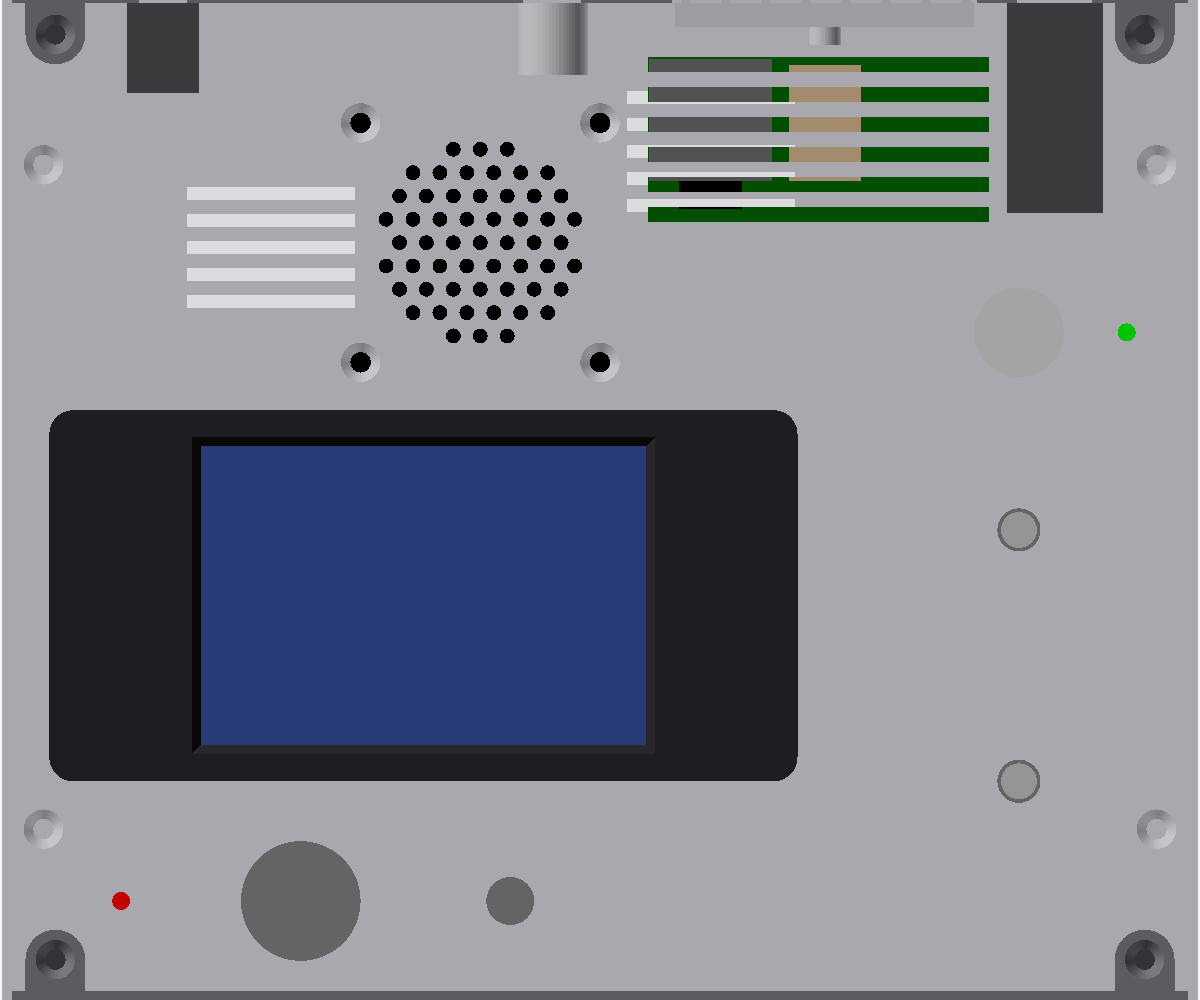
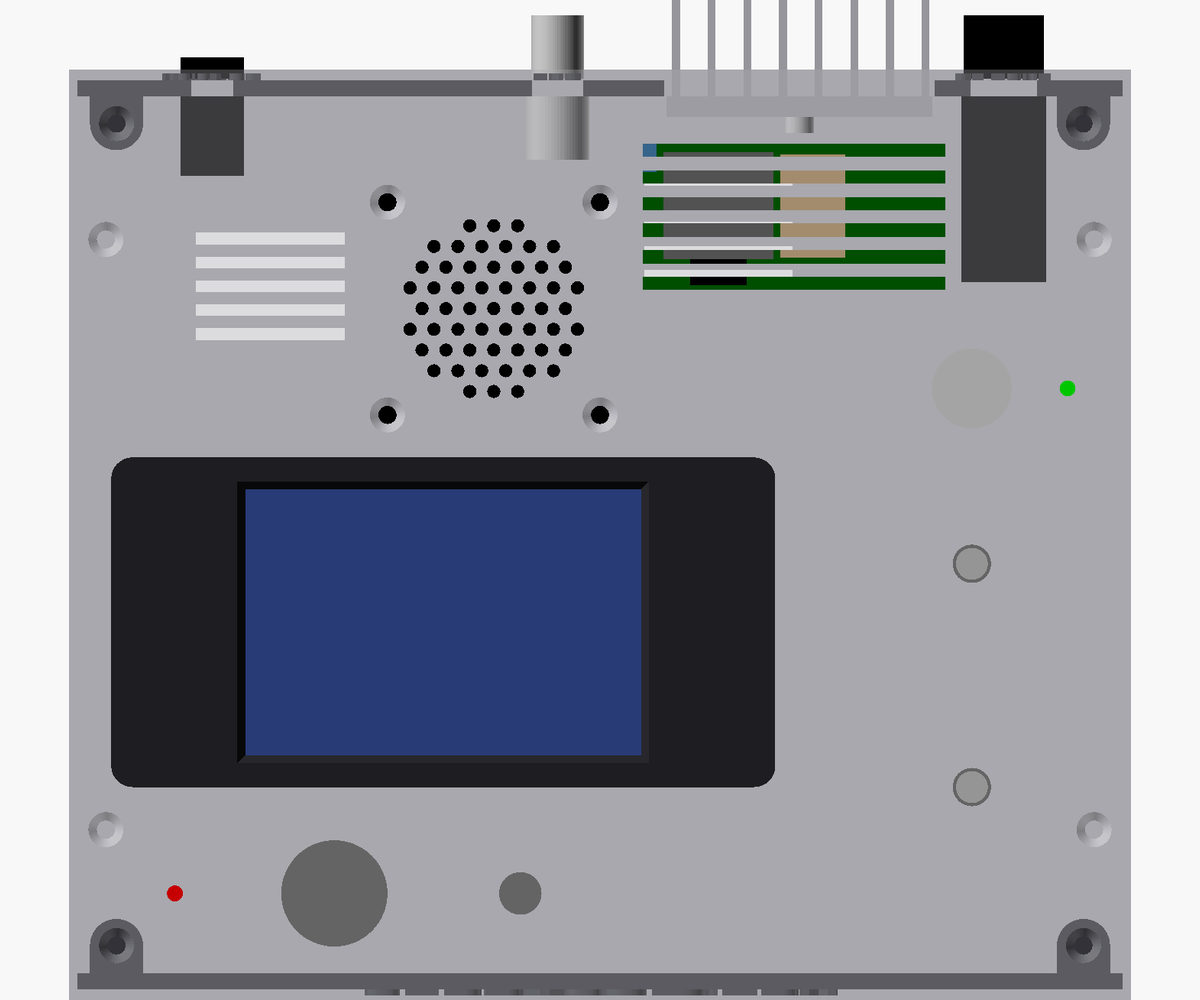
README に詳細な仕様・組み立て方・調整・ライセンス・クレジットを記載、購入用部品表に在庫・品番を追記、ケースのプレビュー更新
- README: 仕様（送信・受信・制御と表示・電源と外形、すべて設計値・計算値）、組み立て方 7 段階
  （部品・基板・はんだ付けとコイルの巻き方・スケッチ・LCD 画面・調整 12 項目・ケース）、
  ライセンス（GPL-3.0、第三者のライブラリ・フォント・商標・無保証）、クレジット（セラゾイド変調の考案者
  James R. Day / REL、Electronics 1948 年 10 月号、US 2,566,826、PSN_TRX、使ったツール）
- 購入用部品表: 秋月以外の部品を DigiKey などで調べた品番・在庫をメモ欄に（2026-10-29、要確認 25 → 10 行）。
  入手に注意: RD06HHF1・RD16HHF1・2N3866（HG3866）・MAX913CPA+・MC3361（UTC 互換品）・CDBM455C24・74HCT4017
- ケース: 組立図・上面図を基板 170 × 150mm で描き直し

diff --git a/tools/make_bom_purchase.py b/tools/make_bom_purchase.py
@@ -4,6 +4,7 @@
 
 部品は circuit.py から読み、値・種類・注記（NP0・500V・積層）で購入する品を決める（部品番号には依らない）。
 秋月電子の型番・販売コード・入数・価格は 2026-10-16 に秋月の通販サイトで確認したもの（2026-10-29 に足した部品は、その日に商品ページで確認）。
+秋月以外の部品は 2026-10-29 に DigiKey などの検索結果で在庫・品番を調べた（集計サイトの値もあり、注文前に必ず確認）。
 「要確認」は秋月で扱いがなく、型番・在庫を確かめていない部品（代わりの品の候補をメモに書いた）。
 出力は UTF-8 BOM 付き（Excel でそのまま開ける）。
 """
@@ -114,8 +115,7 @@ BUY = {
     'L:T50-6': ('トロイダルコア T-50-6（0.8mm ポリウレタン線を巻く）', aki('T-50-6', '111947', '1個', 410, '巻数は値のとおり（9T・10T）')),
     'L:FT37-43': ('フェライトトロイダルコア FT-37-43', aki('FT-37-43', '131660', '1個', 310, '10 回')),
     'L:FT50-43': ('フェライトトロイダルコア FT-50-43（0.8mm 線）', aki('FT-50-43', '116918', '1個', 290, '8 回（3A 流れる）')),
-    'T:BN43-202': ('めがねコア BN-43-202', other('DigiKey／Mouser（要確認）', 'Fair-Rite 2843002402（BN-43-202 相当）',
-                   '一次 2 回・二次 5 回。秋月に扱いなし')),
+    'T:BN43-202': ('めがねコア BN-43-202', other('DigiKey', 'Fair-Rite 2843002402（BN-43-202）', '在庫あり 約 $0.19（集計サイトの値（2026-10-29 調べ））。一次 2 回・二次 5 回')),
     # ---- ダイオード
     'D:1N4148': ('小信号ダイオード', aki('1N4148', '100941', '50本', 200)),
     'D:1N4001': ('整流ダイオード 1A', aki('1N4007-3485', '100934', '20本', 100, '1N4001 の代わりに 1N4007')),
@@ -128,44 +128,44 @@ BUY = {
     'Q:2SC1815': ('NPN トランジスタ', aki('2SC1815L-GR-T92', '106477', '20個', 100)),
     'Q:2SA1015': ('PNP トランジスタ', aki('2SA1015L-GR-T92', '106734', '20個', 100)),
     'Q:2N7000': ('N-ch MOSFET', aki('2N7000', '109723', '1個', 40)),
-    'Q:2N3819': ('N-ch JFET', other('DigiKey／サトー電気 など（要確認）', '2N3819', '秋月に扱いなし')),
-    'Q:2N3866': ('RF 用 NPN トランジスタ（TO-39）', other('DigiKey／RF 部品店（要確認）', '2N3866', '秋月に扱いなし。放熱クリップも用意')),
-    'Q:RD06HHF1': ('RF パワー MOSFET（三菱）', other('RF 部品店／Mouser（要確認）', 'RD06HHF1', '秋月に扱いなし')),
-    'Q:RD16HHF1': ('RF パワー MOSFET（三菱）', other('RF 部品店／Mouser（要確認）', 'RD16HHF1', '秋月に扱いなし')),
+    'Q:2N3819': ('N-ch JFET', other('DigiKey（取り寄せ）', '2N3819 APM PBFREE（Central）', 'Central 品は量産中だが DigiKey の在庫なし・取り寄せ（納期 8〜18 週）（2026-10-29 調べ）')),
+    'Q:2N3866': ('RF 用 NPN トランジスタ（TO-39）', other('要注意（製造中止）', '2N3866 または HG3866（同等品）', 'Central・Microchip・ST 品は DigiKey で製造中止（2026-10-29 調べ）。HG Semiconductor の HG3866 が同じピン配置の同等品（在庫は不定）。DigiKey の代替品一覧（onsemi など）も確認。放熱クリップも用意')),
+    'Q:RD06HHF1': ('RF パワー MOSFET（三菱）', other('要注意（入手難）', 'RD06HHF1', 'RF Parts では在庫限り（NOS）・輸出不可（2026-10-29 調べ）。早めに確保するか代わりを検討')),
+    'Q:RD16HHF1': ('RF パワー MOSFET（三菱）', other('要注意（入手難）', 'RD16HHF1', '代理店は見積もりのみ（中国の代理店に在庫表示）（2026-10-29 調べ）。偽物に注意。早めに確保するか代わりを検討')),
     # ---- IC・モジュール
-    'U:74AC14': ('シュミットインバータ（AC、DIP）', other('DigiKey／Mouser（要確認）', 'SN74AC14N', '秋月は表面実装の ACT 品だけ。必ず AC 品')),
-    'U:74AC86': ('2 入力 XOR（AC、DIP）', other('DigiKey／Mouser（要確認）', 'SN74AC86N', '秋月に扱いなし。必ず AC 品')),
-    'U:74AC74': ('D フリップフロップ（AC、DIP）', other('DigiKey／Mouser（要確認）', 'SN74AC74N', 'PLL の位相比較。必ず AC 品')),
-    'U:74AC00': ('2 入力 NAND（AC、DIP）', other('DigiKey／Mouser（要確認）', 'SN74AC00N', 'PLL の位相比較のリセット。必ず AC 品')),
-    'U:74HCU04': ('アンバッファインバータ（DIP）', other('DigiKey／Mouser（要確認）', 'SN74HCU04N', '段間同調の自己バイアス増幅と VCO。必ず U 付き')),
+    'U:74AC14': ('シュミットインバータ（AC、DIP）', other('DigiKey', 'SN74AC14N（296-4301-5-ND）', 'DigiKey JP 在庫あり 約 ¥120/個（2026-10-29 調べ）。必ず AC 品')),
+    'U:74AC86': ('2 入力 XOR（AC、DIP）', other('DigiKey', 'SN74AC86N（296-4345-5-ND）', 'DigiKey 在庫あり 約 $0.66（2026-10-29 調べ）。必ず AC 品')),
+    'U:74AC74': ('D フリップフロップ（AC、DIP）', other('DigiKey', 'SN74AC74N（296-4342-5-ND）', 'DigiKey 在庫あり 約 $0.77（2026-10-29 調べ）。PLL の位相比較。必ず AC 品')),
+    'U:74AC00': ('2 入力 NAND（AC、DIP）', other('DigiKey', 'SN74AC00N（296-4287-5-ND）', 'DigiKey 在庫あり（標準納期 12 週）（2026-10-29 調べ）。PLL の位相比較のリセット。必ず AC 品')),
+    'U:74HCU04': ('アンバッファインバータ（DIP）', other('DigiKey', 'SN74HCU04N（296-9820-5-ND）', 'DigiKey JP 在庫あり 約 ¥115（2026-10-29 調べ）。代わりに CD74HCU04E（296-33167-5-ND）も可。必ず U 付き')),
     'U:AD8307ANZ': ('対数増幅 IC（DIP-8、S メーター）', other('DigiKey／Mouser（要確認）', 'AD8307ANZ',
                     'Analog Devices。2026-10-29 時点で量産品、DigiKey の標準納期 10 週。秋月に扱いなし')),
     'U:ADS1115 module': ('16 ビット I2C ADC モジュール（ADS1115）', other('DigiKey（Adafruit 1085）／Amazon など（要確認）',
                          'Adafruit 1085 または同じピン並び（VDD GND SCL SDA ADDR ALRT A0〜A3）のモジュール',
                          '付属のピンヘッダをはんだ付けし、基板のピンソケットに差す。秋月に扱いなし')),
-    'U:74HCT123': ('ワンショット（HCT、DIP）', other('DigiKey／Mouser（要確認）', 'CD74HCT123E', '秋月に扱いなし')),
-    'U:74HCT4017': ('10 進カウンタ（HCT、DIP）', other('DigiKey／Mouser（要確認）', 'CD74HCT4017E', '秋月は表面実装の 74HC4017（109757）だけ')),
-    'U:MAX913CPA': ('高速コンパレータ（DIP-8）', other('DigiKey／Mouser（要確認）', 'MAX913CPA+', '秋月に扱いなし')),
-    'U:MCP6004': ('4 回路オペアンプ（DIP-14）', other('DigiKey／Mouser（要確認）', 'MCP6004-I/P', '秋月に扱いなし')),
+    'U:74HCT123': ('ワンショット（HCT、DIP）', other('DigiKey／Mouser（要確認）', 'CD74HCT123E', 'TI では量産品（Buerklin に在庫）（2026-10-29 調べ）。DigiKey の在庫は未確認')),
+    'U:74HCT4017': ('10 進カウンタ（HCT、DIP）', other('DigiKey／Mouser（要確認）', 'CD74HCT4017E', 'DigiKey では HCT 品が見つからなかった（2026-10-29 調べ）。HC 品（CD74HC4017E、296-25989-5-ND、在庫あり）は Si5351 の 3.3V 出力を受けられない（5V で High 3.5V 以上）ので、HCT 品を探すか、間にレベル変換を入れる。秋月は表面実装の 74HC4017 だけ')),
+    'U:MAX913CPA': ('高速コンパレータ（DIP-8）', other('DigiKey（要注意）', 'MAX913CPA+', '製造中止扱いの販売店が多い。DigiKey は在庫 43 個・約 €13（2026-10-29 調べ）、Rochester に在庫あり。早めに確保するか代わりを検討')),
+    'U:MCP6004': ('4 回路オペアンプ（DIP-14）', other('DigiKey', 'MCP6004-I/P（MCP6004-I/P-ND）', 'DigiKey 在庫あり 約 $0.59（2026-10-29 調べ）')),
     'U:MCP6002': ('2 回路オペアンプ（DIP-8）', aki('MCP6002-E/P', '130011', '1個', 80, '確認時は入荷予定')),
     'U:NJM2594V': ('ダブルバランスドミキサ（SSOP8、表面実装）', aki('NJM2594V', '111195', '1個', 150, 'SA612AN（製造中止）の代わり。0.65mm ピッチを部品面に手はんだ')),
-    'U:MC3361': ('FM IF IC（DIP-16）', other('サトー電気／海外通販 など（要確認）', 'MC3361', '製造中止品。秋月に扱いなし')),
+    'U:MC3361': ('FM IF IC（DIP-16）', other('LCSC／海外通販（要注意）', 'MC3361BPL-D16-T（UTC、DIP-16）または MC3361BP', 'Motorola 品は製造中止（2026-10-29 調べ）。UTC の互換品が LCSC で約 $0.22。古い在庫品は eBay など')),
     'U:LM386N-1': ('オーディオアンプ（DIP-8）', aki('LM386G-D08', '114548', '1個', 40, 'LM386N-1 の互換品（HTC）')),
     'U:78L05': ('3 端子レギュレータ 5V 100mA', aki('L78L05ACZ', '101250', '5個', 100, 'ピン配置（OUT-GND-IN）を基板と照合する')),
     'U:L7805': ('3 端子レギュレータ 5V 1.5A', aki('L7805CV-DG', '107903', '1個', 120)),
-    'U:L7808': ('3 端子レギュレータ 8V 1.5A（TO-220）', other('DigiKey／Mouser（要確認）', 'L7808CV', '秋月は表面実装（TO-252）の NJM7808SDL1 だけ')),
+    'U:L7808': ('3 端子レギュレータ 8V 1.5A（TO-220）', other('DigiKey', 'L7808CV（4491-L7808CV-ND、Lumimax）', 'DigiKey マーケットプレイスに在庫あり 約 $0.50（2026-10-29 調べ）。ST 品（497-2949-5-ND）は在庫なし')),
     'U:LP2950-3.3': ('3.3V LDO レギュレータ', aki('LP2950L-33-T92', '108749', '1個', 30)),
     'U:R-78E5.0-1.0': ('DC-DC コンバータ 5V 1A（78xx 互換）', other('DigiKey／Mouser', 'R-78E5.0-1.0', '秋月は 0.5A 品 R-78E5.0-0.5（106353）のみ')),
     'U:XIAO ESP32C3': ('Seeed Studio XIAO ESP32C3', aki('113991054', '117454', '1個', 1080, '確認時は在庫僅少')),
     'U:AE-Si5351A': ('Si5351A クロックジェネレータモジュール', aki('AE-Si5351A-B', '110679', '1セット', 650, 'ピン配置を基板と照合してから取り付ける')),
     # ---- 水晶・フィルタ
-    'X:10.245MHz': ('水晶振動子 10.245MHz（HC-49/U）', other('要確認', '10.245MHz', '秋月に扱いなし')),
-    'X:CDBM455C24': ('セラミックディスクリミネータ 455kHz', other('要確認', 'CDBM455C24（村田）', '秋月に扱いなし')),
-    'FL:10M15A': ('10.7MHz 水晶フィルタ（15kHz 幅、3 ピン）', other('要確認', '10M15A', '秋月に扱いなし')),
+    'X:10.245MHz': ('水晶振動子 10.245MHz（HC-49/U）', other('Tayda／LCSC', '10.245MHz HC-49/S（例: YXC X49SD10245MSD2SC）', 'HC-49/U の DigiKey 品は見つからない（2026-10-29 調べ）。HC-49/S（背の低い品）なら安く手に入り、足の間隔は同じ。負荷容量 18〜20pF')),
+    'X:CDBM455C24': ('セラミックディスクリミネータ 455kHz', other('要確認（製造中止の恐れ）', 'CDBM455C24（村田）', '村田の 455kHz ディスクリミネータは DigiKey で製造中止の品が多い（2026-10-29 調べ）。在庫を確かめてから。入手できないときは 455kHz の LC 同調（コイル ＋ C）で置き換えを検討')),
+    'FL:10M15A': ('10.7MHz 水晶フィルタ（15kHz 幅、3 ピン）', other('DigiKey', 'ECS-10.7-15A（X703-ND）', '10.7MHz・帯域 15kHz・3 端子、終端 3kΩ。DigiKey は標準納期 18 週（2026-10-29 調べ）')),
     'FL:CFWLA455KFFA': ('455kHz セラミックフィルタ', aki('LT455EU', '116046', '1個', 65,
                         'CFWLA455KFFA の代わり（±7.5kHz）。ピン配置・寸法を基板と照合する')),
     # ---- リレー・コネクタ
-    'K:G5V-2 DC12': ('リレー DPDT 12V（オムロン G5V-2）', other('DigiKey／Mouser', 'G5V-2-DC12', '秋月に扱いなし')),
+    'K:G5V-2 DC12': ('リレー DPDT 12V（オムロン G5V-2）', other('LCSC／DigiKey（要確認）', 'G5V-2-DC12', 'LCSC に在庫あり（2026-10-29 調べ）。DigiKey は未確認')),
     'J:header': ('ピンヘッダ', aki('PH-1x40SG', '100167', '1本(40P)', 35, 'J2・J3・J7・J5・J4・J6・J9 で 1 本')),
     'J:wire': ('ビニール線（AWG18 など）', other('手持ち／ホームセンター', '', 'DC 入力・ANT（ANT は RG-174 同軸）')),
     'TP:': ('テストポイント', other('手持ち', '', '抵抗の足の切れ端をループにして立てる')),

diff --git a/README.md b/README.md
@@ -6,7 +6,7 @@
 
 > **状態: 回路図 Ver 1.2 作成済み**（[回路図 PDF](kicad/Serrasoid_TRX_回路図.pdf)・[部品表](kicad/BOM.md)・[購入用部品表](kicad/bom_purchase.csv)）。基板 Ver 1.2（170 × 150mm）は配置・配線まで（スプリアス対策で逓倍を ×16 にし段間同調と PLL を追加、DRC エラー 0、[基板チェック](docs/基板チェック.md)、[部品実装図](docs/Serrasoid_TRX_部品実装図.pdf)・[部品配置図 A3](kicad/Serrasoid_TRX_部品配置図.pdf)）。スケッチ（[firmware/Serrasoid_TRX](firmware/Serrasoid_TRX/)、コンパイル確認のみ）・LCD 画面の背景と作り方は作成済み、LCD の画面データ（.HMI）と製造データはこれから。実機未製作
 
-回路図は 1 枚（A1）。機能ブロック（電源・制御・セラゾイド変調・逓倍・送信音声・送信RF・受信）ごとに枠で囲み、ブロックの中もブロックの間も、信号・電源ともすべて線で結線している（ネットラベルは使わない）。電源の名前（+13V8・+5VT・TX8V など）は、その電源の出どころ（レギュレータの出力など）に電源記号を 1 つ置いて示す。GND だけは GND 記号でつなぐ。
+回路図は 1 枚（A0）。機能ブロック（電源・制御・セラゾイド変調・逓倍・PLL・送信音声・送信RF・受信）ごとに枠で囲み、ブロックの中もブロックの間も、信号・電源ともすべて線で結線している（ネットラベルは使わない）。電源の名前（+13V8・+5VT・TX8V など）は、その電源の出どころ（レギュレータの出力など）に電源記号を 1 つ置いて示す。GND だけは GND 記号でつなぐ。
 
 ## セラゾイド変調のしくみ
 
@@ -39,18 +39,55 @@
    10.7MHz 水晶フィルタ（15kHz 幅）→ MC3361（455kHz・検波・スケルチ）→ LM386 → SP
 ```
 
-## 主な仕様（目標）
+## 仕様
+
+数値は設計値・計算値です（実機は未製作で、測定はしていません）。
+
+### 送信
 
 | 項目 | 値 |
 |---|---|
-| 周波数 | 29.000〜29.700MHz（10kHz ステップ、呼出 29.300MHz） |
+| 周波数 | 29.000〜29.700MHz（呼出 29.300MHz）。ステップ 1k・5k・10k・100kHz（既定 10kHz） |
 | 電波型式 | F3E（FM） |
-| 送信出力 | 10W（13.8V） |
-| 最大周波数偏移 | ±5kHz |
-| 変調方式 | セラゾイド変調（1.83125MHz で PM）→ ×16 逓倍 → PLL 追従フィルタ（プリエンファシス付き FM と同等） |
-| 受信方式 | シングルスーパー＋MC3361 内の第 2 変換（10.7MHz / 455kHz） |
-| 制御 | Seeed Studio XIAO ESP32C3 ＋ Si5351A |
-| 電源 | DC 13.8V（送信時 約 2.5A） |
+| 送信出力 | 10W（13.8V、50Ω） |
+| 最大周波数偏移 | ±5kHz（3kHz の音で。半固定 VR で合わせる） |
+| 変調方式 | セラゾイド変調（1.83125MHz で PM）→ XOR 逓倍 ×16（段間同調つき）→ PLL 追従フィルタ（VCO 29.3MHz）。積分器なしの PM ＝ 6dB/oct のプリエンファシス付き FM と同じ特性 |
+| 音声 | エレクトレットマイク、IDC（±0.6V クリップ）、3kHz LPF |
+| 電力増幅 | 2N3866（バッファ）→ RD06HHF1（ドライバ）→ RD16HHF1（ファイナル）→ BN43-202 で 1:6.25 → 7 次チェビシェフ LPF（fc 約 32MHz） |
+| スプリアス（計算） | 逓倍のずれによる側帯波 最悪 −99dBc（部品のばらつき 200 通り）、2 倍の高調波 −72dBc（PA の高調波は仮定）。[図](docs/images/spurious_calc_0-300MHz.png)。規格は 50mW 以下かつ −50dBc |
+| 送信の切り替え | PTT → リレー（G5V-2）→ 15ms 後に変調基準を出す。29.000〜29.700MHz の外では送信しない |
+
+### 受信
+
+| 項目 | 値 |
+|---|---|
+| 方式 | ダブルスーパー（第 1 IF 10.7MHz、第 2 IF 455kHz。第 2 変換以降は MC3361） |
+| RF | 29MHz 複同調 BPF → 2N3819（ソース接地） |
+| 第 1 混合・局発 | NJM2594V（DBM）、局発は Si5351 の CLK1（受信周波数 − 10.7MHz、下側） |
+| 選択度 | 10.7MHz 水晶フィルタ（帯域 15kHz）＋ 455kHz セラミックフィルタ |
+| 復調 | MC3361（クオドラチャ検波、CDBM455 ディスクリミネータ）、ディエンファシス 470µs |
+| 低周波出力 | LM386 約 0.5W（8Ω、内蔵スピーカー 5cm または外部スピーカー） |
+| スケルチ | ノイズスケルチ（7kHz 以上のノイズを検波、XIAO が判定してミュート）。深さ SQL 0〜9 |
+| S メーター | AD8307（対数増幅）で 10.7MHz 水晶フィルタの後ろの強さを測る。計算で S2〜S9＋40 程度。アナログメーター表示 |
+| スキャン | 29.000〜29.700MHz を 10kHz ずつ。スケルチが開いたら止まり、信号が消えて 3 秒で再開 |
+
+### 制御・表示
+
+| 項目 | 値 |
+|---|---|
+| マイコン | Seeed Studio XIAO ESP32C3（スケッチ: [firmware/Serrasoid_TRX](firmware/Serrasoid_TRX/)） |
+| 発振 | Si5351A モジュール（秋月 AE-Si5351A）。CLK0 = 変調基準（送信周波数 × 10 ÷ 16）、CLK1 = 受信局発 |
+| 表示器 | Nextion NX4832T035（3.5 インチ 480 × 320、PSN_TRX と同じ）。TJC4832T135 も可。周波数・ステップ・アナログ S メーター（送信中は出力 W）・RX / TX / SCAN・スケルチ・BUSY |
+| 操作 | 上面 TUNE（ロータリーエンコーダ、押す・長押し）、VOL、POWER、MIC（PTT 付き）、EXT SP |
+| 記憶 | 周波数・ステップ・スケルチを XIAO のフラッシュに保存 |
+
+### 電源・外形
+
+| 項目 | 値 |
+|---|---|
+| 電源 | DC 13.8V（送信時 約 2.5A、受信時 約 0.3A の目安）。ヒューズ 5A、逆接続は 1N5408（1N5822）でヒューズを切る |
+| 基板 | 170 × 150mm、4 層（内層 2 枚は GND）、部品 324 点（表面実装は NJM2594V の 1 点だけ）、Ver 1.2 |
+| ケース | 200 × 175 × 50mm（3D 印刷、OpenSCAD）。終段の放熱器のフィンを後面の窓から外に出す |
 
 ## 送信部
 
@@ -121,7 +158,7 @@
 | D1/A1 | 出力検出 | D7 | ミュート出力 |
 | D2/A2 | スケルチ用ノイズ | D8 | エンコーダ B |
 | D3 | エンコーダ A | D9 | エンコーダ SW（起動設定ピン） |
-| D4/D5 | I2C（Si5351） | D10 | 送信（リレー）出力 |
+| D4/D5 | I2C（Si5351・ADS1115） | D10 | 送信（リレー）出力 |
 
 ESP32-C3 は電源投入時に GPIO2（D0）と GPIO9（D9）が High のときフラッシュから起動するので、この 2 本にはふだん開放の PTT とエンコーダ SW をつないでいる。PTT やつまみを押したまま電源を入れないこと。
 - 送信時は CLK0（変調基準 = 送信周波数 × 10 ÷ 16）、受信時は CLK1（局発）。受信中は CLK0 を止めて自局の回り込みを防ぐ（VCO は受信中 RX8V で止まる）
@@ -159,13 +196,76 @@ tools/check.sh             # 回路図を作り直して ERC と接続照合（t
 - 逓倍方式は分数調波・隣の逓倍成分が出やすい。PLL 追従フィルタで落としているが、スペクトラムアナライザでスプリアスが規格内か確認すること（特に ±1.83MHz（27.47・31.13MHz）、14.65MHz・43.95MHz 付近）。PLL が外れる（TP「VT」が 0V か 5V に張り付く）と VCO が勝手な周波数で出るので、送信前に VT を確認する
 - 周波数は JARL バンドプランの FM 区分に合わせる
 
-## 基板の組み立て
+## 組み立て方
 
-[部品実装図（PDF、9 ページ）](docs/Serrasoid_TRX_部品実装図.pdf): 1 ページ目が全体図、2 ページ目からブロックごと（電源 → 制御 → セラゾイド変調 → 逓倍 → PLL → 送信音声 → 送信RF → 受信、組立順の目安）に、そのブロックの部品を強調した図と部品表（値・種類・極性などの注意）。A3 1 枚の配置図は [kicad/Serrasoid_TRX_部品配置図.pdf](kicad/Serrasoid_TRX_部品配置図.pdf)。
+### 1. 部品をそろえる
+
+- [購入用部品表](kicad/bom_purchase.csv)（Excel で開ける）に、部品ごとの購入先・型番・販売コード・入数・価格を載せています。大半は秋月電子、秋月にないものは DigiKey など（2026-10-29 に在庫を調べた結果をメモ欄に記載）。
+- **入手に注意する部品**（早めに確保するか、代わりを検討）: RD06HHF1・RD16HHF1（入手難）、2N3866（製造中止、同等品 HG3866）、MAX913CPA+（製造中止扱いの販売店が多い）、MC3361（Motorola 品は製造中止、UTC の互換品あり）、CDBM455C24（製造中止の恐れ）、74HCT4017（DigiKey で HCT 品が見つからない）、AD8307ANZ（DigiKey の標準納期 10 週）、2N3819（取り寄せ）。
+- 基板の外の部品（IC ソケット、パネルのコネクタ、LCD、ねじなど）も購入用部品表の最後にまとめてあります。
+
+### 2. 基板を作る
+
+- 基板データは `kicad/Serrasoid_TRX.kicad_pcb`（KiCad 10、170 × 150mm、4 層）。**製造用のガーバー（Gerber）はまだ出力していません**。基板メーカーに出すときは KiCad の「製造ファイル出力」でガーバーとドリルファイルを作ってください。
+
+### 3. はんだ付け
+
+[部品実装図（PDF、9 ページ）](docs/Serrasoid_TRX_部品実装図.pdf)の 2 ページ目から、ブロックごとに部品と注意（極性・NP0 など）が載っています。A3 1 枚の配置図は [kicad/Serrasoid_TRX_部品配置図.pdf](kicad/Serrasoid_TRX_部品配置図.pdf)。
 
 ![部品配置（全体図）](docs/images/layout_overview.png)
 
-作り直し: `docs/tools/export_board.py`（KiCad 付属の Python で基板を JSON に）→ `docs/tools/make_parts_layout.py`（部品表は `tools/circuit.py` から）、A3 は `docs/tools/make_layout_a3.sh`。
+1. **U10 NJM2594V（表面実装 SSOP8、0.65mm ピッチ）を最初に**付ける。細いこて先とフラックスで、周りの部品より先に。
+2. **電源**: J1・D1・U4（L7808、小型放熱器）・U6（L7805）・U5（R-78E）・U8（LP2950）と周りのコンデンサ。13.8V を入れて +8V・+5V・+5VT・+3V3S を確かめてから次へ。
+3. **制御**: XIAO（U15）はピンソケット、Si5351 モジュール（U11）はピンヘッダ、ADS1115 モジュール（U13）はピンソケットに差す。リレー K1、エンコーダ・LCD などのコネクタ。
+4. **セラゾイド変調 → 逓倍 → PLL → 送信音声**: IC はすべてソケット。74AC14（U22・U25）・74AC86（U23）・74AC74（U1）・74AC00（U3）は**必ず AC 品**、74HCU04（U24・U12）は**必ず U 付き**。遅延・同調・のこぎり波のコンデンサは NP0（C0G）。
+5. **送信 RF**: Q10 RD06HHF1 は放熱器 HS1 に固定、Q11 RD16HHF1 は基板の後ろの端に立て、ケースの放熱器にねじ止め（タブ = ソース = GND なので絶縁不要）。LPF のコンデンサは NP0 500V 以上。
+6. **受信**: 水晶フィルタ FL1・セラミックフィルタ FL2 は中央の足が GND。S メーターの U9 AD8307 はソケット。
+
+**コイルの巻き方**
+
+| 部品 | コア | 巻き方 |
+|---|---|---|
+| L1・L4（受信 BPF）、L7・L8（送信 BPF） | T-30-6 | 0.4mm 線 17 回、コールド側から 2 回目でタップ（L4 はタップを使わない） |
+| L14・L16 / L15（送信 LPF） | T-50-6 | 0.8mm 線 9 回 / 10 回 |
+| L6（VCO） | T-50-6 | 0.5mm 線 15 回（約 0.9µH） |
+| L10（ドライバのチョーク） | FT-37-43 | 10 回 |
+| L13（ファイナルのチョーク） | FT-50-43 | 0.8mm 線 8 回（3A 流れる） |
+| T1（出力トランス） | BN-43-202 | 一次 2 回・二次 5 回 |
+
+### 4. スケッチを書き込む
+
+1. Arduino IDE（または arduino-cli）に ESP32 のボード（esp32 by Espressif）と、ライブラリ **Etherkit Si5351** を入れる。
+2. ボードは **XIAO_ESP32C3**。`firmware/Serrasoid_TRX/Serrasoid_TRX.ino` を開いて書き込む。
+3. 書き込み時、PTT とつまみは押さないこと（D0・D9 は起動設定ピン）。
+
+### 5. LCD の画面データを作る
+
+[firmware/Serrasoid_TRX/nextion/画面データ作成手順.md](firmware/Serrasoid_TRX/nextion/画面データ作成手順.md) のとおり、Nextion Editor（TJC は USART HMI、どちらも Windows）で背景画像とテキスト部品 7 個の画面を作り、microSD で LCD に書き込みます。基板の J3 の 2 番を LCD の RX（黄）につなぎます。
+
+### 6. 調整
+
+オシロスコープ・テスター・周波数カウンタ（またはスペクトラムアナライザ）・ダミーロード（50Ω 10W 以上）・FM 受信機を使います。**送信は必ずダミーロードで**。
+
+| 順 | 調整 | 方法 |
+|---|---|---|
+| 1 | 電源電圧 | +13V8・+8V・+5V・+5VT・+5VA（受信中）・+3V3S |
+| 2 | VR2（のこぎり波の傾き） | 送信状態で TP3（RAMP）の山を約 1.7V（1.5〜2.4V、3.5V を超えない） |
+| 3 | VR4（しきい値の中心） | 音声なしで TP4（THRESH）を山の約半分（約 0.85V） |
+| 4 | VR5（パルス幅） | TP5（PM）のデューティを 50%（High 273ns） |
+| 5 | 逓倍 | TP6（X16）に 29.3MHz の方形波が出ていること |
+| 6 | TC3（VCO の中心） | 29.300MHz で送信し、TP1（VT）を約 2.5V に。29.000・29.700MHz でも VT が 0.5〜4.5V に入ること |
+| 7 | TC4・TC5（送信 BPF） | TP2（TXOSC）に 29.3MHz が出ていることを確かめ、ダミーロードの出力が最大になるように |
+| 8 | VR6・VR7（PA のアイドル電流） | 無変調・ドライブなしで RD06HHF1 約 100mA、RD16HHF1 約 300mA（最初は VR を絞った側から） |
+| 9 | VR1・VR3（マイク利得・偏移） | 3kHz の音で ±5kHz に（ベッセルヌル: VR3 を上げてキャリアが消える点から 0.69 倍に戻す） |
+| 10 | TC1・TC2（受信 BPF） | 29.3MHz の弱い信号で、受信音のノイズが最も少なくなるように |
+| 11 | S メーター・出力計 | S9（−73dBm）を入れ、シリアルモニタの `rssi` の値をスケッチの `RSSI_MV_S9` に。10W 送信時の `fwd` を `FWD_MV_10W` に。無信号の `noise` を `NOISE_NOSIG_MV` に |
+| 12 | スプリアス | スペクトラムアナライザで ±1.83MHz（27.47・31.13MHz）、14.65MHz、高調波が −50dBc 以下（10W で −10dBm 以下）であること |
+
+セラゾイド変調部の動作と調整の詳しい説明は [docs/セラゾイド変調部の動作説明.docx](docs/セラゾイド変調部の動作説明.docx)。
+
+### 7. ケースに入れる
+
+[enclosure/README.md](enclosure/README.md) のとおり、STL（ベース・ふた・前後パネル・LCD ベゼル）を 3D 印刷し、M3 インサートナットを入れて組み立てます。**放熱器・LCD・コネクタ類の寸法は実物を測って scad の値を直してから印刷**してください。
 
 ## フォルダ
 
@@ -179,6 +279,19 @@ tools/check.sh             # 回路図を作り直して ERC と接続照合（t
 
 ## ライセンス
 
-GPL-3.0（[LICENSE](LICENSE)）
+このリポジトリのすべて（回路図・基板・部品表・ケースの設計データ、スケッチ、スクリプト、資料）は **GNU General Public License v3.0（GPL-3.0）** で公開しています（[LICENSE](LICENSE)）。改変・再配布するときは、同じ GPL-3.0 で、元の著作権表示とソースを付けてください。
+
+- KiCad 標準の記号・フットプリント（KiCad ライブラリ）は CC-BY-SA 4.0（設計に使う分には例外条項により制約なし）です。プロジェクト独自の記号・フットプリント（`kicad/Serrasoid_TRX.kicad_sym`・`kicad/Serrasoid_TRX.pretty`）は GPL-3.0 です。
+- スケッチが使う Etherkit Si5351 ライブラリ（GPL-3.0）・ESP32 Arduino コア（LGPL-2.1）はこのリポジトリに含めていません。各自で入れてください。
+- LCD のフォント（Nextion Editor・USART HMI で作るもの）は含めていません。フォントのライセンスは使う書体に従ってください。
+- XIAO は Seeed Studio、Nextion は ITEAD、TJC は 淘晶驰（TJC）の商標です。
+- **無保証です。** この機械を作る・使うことで起きたことについて、作者は責任を負いません。送信するときは電波法を守り、スプリアスを測って規格内であることを確かめてください（運用上の注意を参照）。
+
+## クレジット
+
+- **セラゾイド変調（Serrasoid modulator）**: James R. Day（Radio Engineering Laboratories、REL）が考案。J. R. Day, "Serrasoid FM Modulator," *Electronics*, 1948 年 10 月号（pp. 72–76）。米国特許 2,566,826「Sawtooth frequency modulator」（1948 年出願、1951 年登録）。1950〜60 年代の放送用 FM 送信機（REL・Gates など）で広く使われた方式を、この機械では汎用のロジック IC・コンパレータ・トランジスタで組み直しています（回路はすべて新たに設計したもの）。
+- **PSN_TRX（JA6FUF）**: 制御部（XIAO ESP32C3 ＋ Si5351）、LCD の画面と表示の作り方、ケースの構成・スピーカー・LCD ベゼル、部品実装図・部品表のスクリプトを流用しています。
+- **使ったツール**: KiCad 10（回路図・基板）、Freerouting 1.9.0（自動配線）、OpenSCAD（ケース）、Arduino / arduino-cli と ESP32 Arduino コア、Etherkit Si5351 ライブラリ（Jason Milldrum, NT7S）、Python（numpy・matplotlib・python-docx・Pillow・PyMuPDF）。
+- 部品の購入先情報は秋月電子通商・DigiKey などのサイトで調べたものです（価格・在庫は調べた日の値）。
 
 Designed by JA6FUF

diff --git a/kicad/BOM.md b/kicad/BOM.md
@@ -121,7 +121,7 @@
 
 | Reference | 値 / 型番 | フットプリント | 数量 | 購入先 | 購入先の型番（販売コード） | 備考 |
 |---|---|---|---|---|---|---|
-| T1 | BN43-202 2T:5T | Transformer BN43-202 | 1 | DigiKey／Mouser（要確認） | Fair-Rite 2843002402（BN-43-202 相当） | 出力整合 1:6.25（8Ω → 50Ω）。一次 2 回・二次 5 回。13.8V で 10W 出すにはドレイン負荷 約 8Ω が必要 |
+| T1 | BN43-202 2T:5T | Transformer BN43-202 | 1 | DigiKey | Fair-Rite 2843002402（BN-43-202） | 出力整合 1:6.25（8Ω → 50Ω）。一次 2 回・二次 5 回。13.8V で 10W 出すにはドレイン負荷 約 8Ω が必要 |
 
 **トランス T 合計: 1**
 
@@ -143,12 +143,12 @@
 | Reference | 値 / 型番 | フットプリント | 数量 | 購入先 | 購入先の型番（販売コード） | 備考 |
 |---|---|---|---|---|---|---|
 | Q1, Q3-Q6 | 2SC1815 | TO-92 Inline | 5 | 秋月電子 | 2SC1815L-GR-T92（106477） | Q1: S メーター用 10.7MHz 増幅（Ic 約 3mA、約 26dB）<br>Q3: 10.7MHz 増幅（エミッタ接地、約 18dB。Ic 約 2.9mA）<br>Q4: 受信中（RX8V）に VCO の入力を GND に落として発振を止める<br>Q5: スケルチのミュート（MUTE = High で消音）<br>Q6: リレー駆動 |
-| Q2 | 2N3819 | TO-92 Inline | 1 | DigiKey／サトー電気 など（要確認） | 2N3819 | RF アンプ（ソース接地） |
+| Q2 | 2N3819 | TO-92 Inline | 1 | DigiKey（取り寄せ） | 2N3819 APM PBFREE（Central） | RF アンプ（ソース接地） |
 | Q7 | 2N7000 | TO-92 Inline | 1 | 秋月電子 | 2N7000（109723） | 放電スイッチ |
 | Q8 | 2SA1015 | TO-92 Inline | 1 | 秋月電子 | 2SA1015L-GR-T92（106734） | 定電流源 |
-| Q9 | 2N3866 | TO-39-3 | 1 | DigiKey／RF 部品店（要確認） | 2N3866 | バッファ（TO-39、放熱クリップを付ける） |
-| Q10 | RD06HHF1 | TO-220-3 Vertical | 1 | RF 部品店／Mouser（要確認） | RD06HHF1 | ドライバ（約 1W）。放熱器 HS1 に固定 |
-| Q11 | RD16HHF1 | TO-220-3 Vertical | 1 | RF 部品店／Mouser（要確認） | RD16HHF1 | ファイナル（10W）。基板端に置き、シャーシの放熱器にねじ止め（絶縁不要: タブ = ソース = GND） |
+| Q9 | 2N3866 | TO-39-3 | 1 | 要注意（製造中止） | 2N3866 または HG3866（同等品） | バッファ（TO-39、放熱クリップを付ける） |
+| Q10 | RD06HHF1 | TO-220-3 Vertical | 1 | 要注意（入手難） | RD06HHF1 | ドライバ（約 1W）。放熱器 HS1 に固定 |
+| Q11 | RD16HHF1 | TO-220-3 Vertical | 1 | 要注意（入手難） | RD16HHF1 | ファイナル（10W）。基板端に置き、シャーシの放熱器にねじ止め（絶縁不要: タブ = ソース = GND） |
 
 **トランジスタ・FET Q 合計: 11**
 
@@ -156,10 +156,10 @@
 
 | Reference | 値 / 型番 | フットプリント | 数量 | 購入先 | 購入先の型番（販売コード） | 備考 |
 |---|---|---|---|---|---|---|
-| U1 | 74AC74 | DIP-14 W7.62mm Socket | 1 | DigiKey／Mouser（要確認） | SN74AC74N | 位相周波数比較。1 個目のクロック = ×16（基準）、2 個目 = VCO。必ず AC 品（29.3MHz） |
+| U1 | 74AC74 | DIP-14 W7.62mm Socket | 1 | DigiKey | SN74AC74N（296-4342-5-ND） | 位相周波数比較。1 個目のクロック = ×16（基準）、2 個目 = VCO。必ず AC 品（29.3MHz） |
 | U2 | 78L05 | TO-92 Inline | 1 | 秋月電子 | L78L05ACZ（101250） | 受信用 5V（NJM2594・MC3361・スケルチ） |
-| U3 | 74AC00 | DIP-14 W7.62mm Socket | 1 | DigiKey／Mouser（要確認） | SN74AC00N | 位相比較のリセット（UP・DN が両方 High で両方の D-FF をクリア）。2〜4 回路目は未使用 |
-| U4 | L7808 | TO-220-3 Vertical | 1 | DigiKey／Mouser（要確認） | L7808CV | 受信・送信バイアス・アナログ系。小型放熱器を付ける |
+| U3 | 74AC00 | DIP-14 W7.62mm Socket | 1 | DigiKey | SN74AC00N（296-4287-5-ND） | 位相比較のリセット（UP・DN が両方 High で両方の D-FF をクリア）。2〜4 回路目は未使用 |
+| U4 | L7808 | TO-220-3 Vertical | 1 | DigiKey | L7808CV（4491-L7808CV-ND、Lumimax） | 受信・送信バイアス・アナログ系。小型放熱器を付ける |
 | U5 | R-78E5.0-1.0 | Converter DCDC RECOM R-78E-0.5 THT | 1 | DigiKey／Mouser | R-78E5.0-1.0 | デジタル系 5V（XIAO・表示） |
 | U6 | L7805 | TO-220-3 Vertical | 1 | 秋月電子 | L7805CV-DG（107903） | 変調部専用 5V（リニア。DC-DC のリプルを変調に入れないため） |
 | U7, U16 | MCP6002 | DIP-8 W7.62mm Socket | 2 | 秋月電子 | MCP6002-E/P（130011） | U7: A: ループフィルタ（レール・ツー・レール出力 0〜5V）、B: 未使用（ボルテージフォロワで固定）<br>U16: A: スケルチ用ノイズアンプ、B: 未使用（ボルテージフォロワで固定） |
@@ -167,17 +167,17 @@
 | U9 | AD8307ANZ | DIP-8 W7.62mm Socket | 1 | DigiKey／Mouser（要確認） | AD8307ANZ | 対数増幅（25mV/dB、−75〜＋17dBm）。DIP-8。+5VA（受信中だけ）。INT（5 番）は開放、ENB は VPS へ |
 | U10 | NJM2594V | TSSOP-8 4.4x3mm P0.65mm | 1 | 秋月電子 | NJM2594V（111195） | 第 1 混合（DBM、変換利得 0dB）。表面実装 SSOP8（0.65mm ピッチ）、部品面に手はんだ（この部品だけ表面実装）。3 番エミッタフォロワ出力、2 番は開放、8 番（内部で未接続）は開放（基板で両側を信号線に挟まれ GND に落とせないため） |
 | U11 | AE-Si5351A | DIP-8 W7.62mm | 1 | 秋月電子 | AE-Si5351A-B（110679） | 秋月 AE-Si5351A。CLK0 = 変調基準 18.3125MHz（送信時のみ。29.3MHz ÷ 16 × 10）、CLK1 = 受信局発 18.6MHz（受信時のみ） |
-| U12, U24 | 74HCU04 | DIP-14 W7.62mm Socket | 2 | DigiKey／Mouser（要確認） | SN74HCU04N | U12: VCO 専用（必ず U 付き）。1: 発振、2: 位相比較行きのバッファ、3〜5: 送信 RF 行きのバッファ（出力を 330Ω ずつで合わせ、駆動を強くする）、6: 未使用。受信中は 1 の入力が GND に落ち、バッファの出力は Low のまま止まる<br>U24: アンバッファ品（必ず U 付き）。1〜3: 同調 1〜3 の後の自己バイアス増幅。4〜6 回路目は未使用 |
+| U12, U24 | 74HCU04 | DIP-14 W7.62mm Socket | 2 | DigiKey | SN74HCU04N（296-9820-5-ND） | U12: VCO 専用（必ず U 付き）。1: 発振、2: 位相比較行きのバッファ、3〜5: 送信 RF 行きのバッファ（出力を 330Ω ずつで合わせ、駆動を強くする）、6: 未使用。受信中は 1 の入力が GND に落ち、バッファの出力は Low のまま止まる<br>U24: アンバッファ品（必ず U 付き）。1〜3: 同調 1〜3 の後の自己バイアス増幅。4〜6 回路目は未使用 |
 | U13 | ADS1115 module | ADS1115 Module Socket | 1 | DigiKey（Adafruit 1085）／Amazon など（要確認） | Adafruit 1085 または同じピン並び（VDD GND SCL SDA ADDR ALRT A0〜A3）のモジュール | I2C 16 ビット ADC（ADS1115 モジュール、Adafruit 1085 と同じピン並び）。アドレス 0x48（ADDR = GND）。A0 = S メーター。ピンソケットに差す（XIAO のピンが足りないので I2C で読む） |
-| U14 | MC3361 | DIP-16 W7.62mm Socket | 1 | サトー電気／海外通販 など（要確認） | MC3361 | 第 2 混合（455kHz）・リミッタ・検波。スケルチは XIAO 側で行うので 10〜14 番は未使用 |
+| U14 | MC3361 | DIP-16 W7.62mm Socket | 1 | LCSC／海外通販（要注意） | MC3361BPL-D16-T（UTC、DIP-16）または MC3361BP | 第 2 混合（455kHz）・リミッタ・検波。スケルチは XIAO 側で行うので 10〜14 番は未使用 |
 | U15 | XIAO ESP32C3 | Seeeduino XIAO Socket | 1 | 秋月電子 | 113991054（117454） | ソケット実装。起動設定ピン D0（GPIO2）・D9（GPIO9）は起動時に High が必要なので、ふだん開放の PTT とエンコーダ SW をつなぐ（PTT・つまみを押したまま電源を入れない）。D8（GPIO8）はフラッシュ起動に関係しないのでエンコーダ B 相 |
 | U17 | LM386N-1 | DIP-8 W7.62mm Socket | 1 | 秋月電子 | LM386G-D08（114548） | 低周波増幅（利得 20） |
-| U18 | MCP6004 | DIP-14 W7.62mm Socket | 1 | DigiKey／Mouser（要確認） | MCP6004-I/P | A: マイクアンプ、B: 利得段、C: 3kHz LPF、D: しきい値バッファ |
+| U18 | MCP6004 | DIP-14 W7.62mm Socket | 1 | DigiKey | MCP6004-I/P（MCP6004-I/P-ND） | A: マイクアンプ、B: 利得段、C: 3kHz LPF、D: しきい値バッファ |
 | U19 | 74HCT4017 | DIP-16 W7.62mm Socket | 1 | DigiKey／Mouser（要確認） | CD74HCT4017E | ÷10。Q0 が 546ns ごとに約 55ns 幅のリセットパルス。HCT 品（3.3V 入力を受けるため）。CLK0 18.3MHz は最高クロック（5V・最悪条件で約 20MHz）に近いので、代替品は 74HC4017（3.3V 入力でも動く品）を確かめてから |
-| U20 | MAX913CPA | DIP-8 W7.62mm Socket | 1 | DigiKey／Mouser（要確認） | MAX913CPA+ | 高速コンパレータ（10ns、DIP-8）。単電源 5V（V- = GND）で入力範囲は -0.2〜+3.5V、出力は TTL（High 2.4〜3.4V）。LE は Low でラッチしない（データシート: High または開放でラッチ）ので GND に固定。LT1016 は単電源では入力範囲が足りないので使わない |
+| U20 | MAX913CPA | DIP-8 W7.62mm Socket | 1 | DigiKey（要注意） | MAX913CPA+ | 高速コンパレータ（10ns、DIP-8）。単電源 5V（V- = GND）で入力範囲は -0.2〜+3.5V、出力は TTL（High 2.4〜3.4V）。LE は Low でラッチしない（データシート: High または開放でラッチ）ので GND に固定。LT1016 は単電源では入力範囲が足りないので使わない |
 | U21 | 74HCT123 | DIP-16 W7.62mm Socket | 1 | DigiKey／Mouser（要確認） | CD74HCT123E | コンパレータの立ち上がりで約 273ns（デューティ 50%）のパルス。MAX913 の TTL 出力を受けるため HCT 品。2 回路目は未使用 |
-| U22, U25 | 74AC14 | DIP-14 W7.62mm Socket | 2 | DigiKey／Mouser（要確認） | SN74AC14N | U22: RC 遅延の後の波形整形（シュミット）と、段 1・2 の同調の後の整形。74AC86 に遅い波形を入れないため。必ず AC 品<br>U25: 同調 3 の後の整形（シュミット）。2〜6 回路目は未使用。必ず AC 品 |
-| U23 | 74AC86 | DIP-14 W7.62mm Socket | 1 | DigiKey／Mouser（要確認） | SN74AC86N | ×2 段 1〜4（1.83 → 3.66 → 7.33 → 14.65 → 29.3MHz）。必ず AC 品 |
+| U22, U25 | 74AC14 | DIP-14 W7.62mm Socket | 2 | DigiKey | SN74AC14N（296-4301-5-ND） | U22: RC 遅延の後の波形整形（シュミット）と、段 1・2 の同調の後の整形。74AC86 に遅い波形を入れないため。必ず AC 品<br>U25: 同調 3 の後の整形（シュミット）。2〜6 回路目は未使用。必ず AC 品 |
+| U23 | 74AC86 | DIP-14 W7.62mm Socket | 1 | DigiKey | SN74AC86N（296-4345-5-ND） | ×2 段 1〜4（1.83 → 3.66 → 7.33 → 14.65 → 29.3MHz）。必ず AC 品 |
 
 **IC・モジュール U 合計: 25**
 
@@ -185,8 +185,8 @@
 
 | Reference | 値 / 型番 | フットプリント | 数量 | 購入先 | 購入先の型番（販売コード） | 備考 |
 |---|---|---|---|---|---|---|
-| X1 | 10.245MHz | Crystal HC49-U Vertical | 1 | 要確認 | 10.245MHz | 第 2 局発。データシートの試験回路どおり 1 番と VCC の間 |
-| X2 | CDBM455C24 | C Disc D5.0mm W2.5mm P5.00mm | 1 | 要確認 | CDBM455C24（村田） | 455kHz セラミックディスクリミネータ（2 端子、5mm ピッチ） |
+| X1 | 10.245MHz | Crystal HC49-U Vertical | 1 | Tayda／LCSC | 10.245MHz HC-49/S（例: YXC X49SD10245MSD2SC） | 第 2 局発。データシートの試験回路どおり 1 番と VCC の間 |
+| X2 | CDBM455C24 | C Disc D5.0mm W2.5mm P5.00mm | 1 | 要確認（製造中止の恐れ） | CDBM455C24（村田） | 455kHz セラミックディスクリミネータ（2 端子、5mm ピッチ） |
 
 **水晶・ディスクリミネータ X 合計: 2**
 
@@ -194,7 +194,7 @@
 
 | Reference | 値 / 型番 | フットプリント | 数量 | 購入先 | 購入先の型番（販売コード） | 備考 |
 |---|---|---|---|---|---|---|
-| FL1 | 10M15A | Crystal HC49-U-3Pin Vertical | 1 | 要確認 | 10M15A | 10.7MHz 水晶フィルタ（帯域 ±7.5kHz）。ピン配置は実物で確認 |
+| FL1 | 10M15A | Crystal HC49-U-3Pin Vertical | 1 | DigiKey | ECS-10.7-15A（X703-ND） | 10.7MHz 水晶フィルタ（帯域 ±7.5kHz）。ピン配置は実物で確認 |
 | FL2 | CFWLA455KFFA | Filter Ceramic 3pin P2.54mm | 1 | 秋月電子 | LT455EU（116046） | 455kHz セラミックフィルタ（±7.5kHz 程度）。ピン配置は実物で確認 |
 
 **フィルタ FL 合計: 2**
@@ -203,7 +203,7 @@
 
 | Reference | 値 / 型番 | フットプリント | 数量 | 購入先 | 購入先の型番（販売コード） | 備考 |
 |---|---|---|---|---|---|---|
-| K1 | G5V-2 DC12 | Relay DPDT Omron G5V-2 | 1 | DigiKey／Mouser | G5V-2-DC12 | 送受切替。1 極目: アンテナ（NC=受信、NO=送信）、2 極目: 8V を RX8V / TX8V へ |
+| K1 | G5V-2 DC12 | Relay DPDT Omron G5V-2 | 1 | LCSC／DigiKey（要確認） | G5V-2-DC12 | 送受切替。1 極目: アンテナ（NC=受信、NO=送信）、2 極目: 8V を RX8V / TX8V へ |
 
 **リレー K 合計: 1**
 
